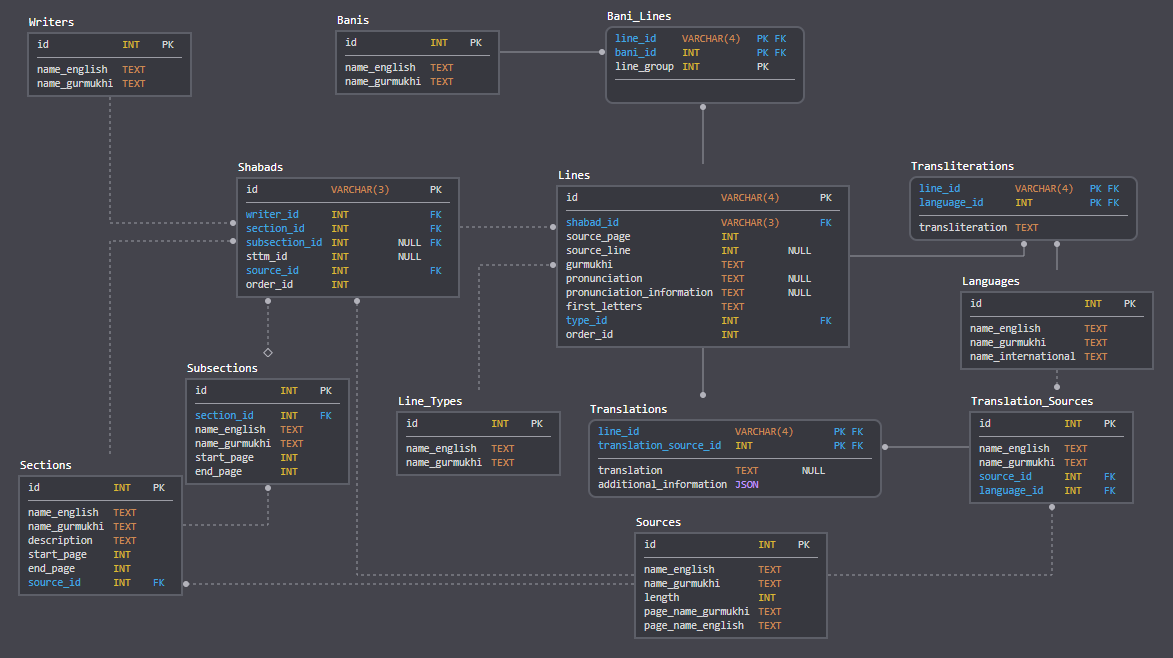
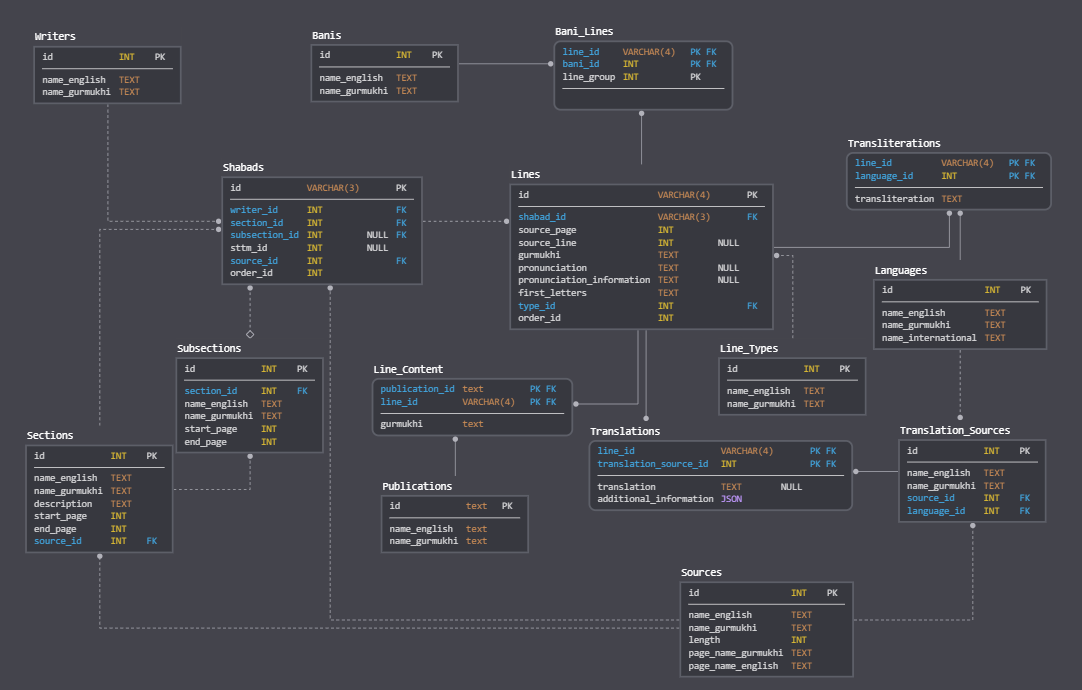
feat: add publications and line content to schema

diff --git a/lib/schema.js b/lib/schema.js
@@ -75,11 +75,24 @@ const createSchema = knex => knex.schema
     table.integer( 'source_line' )
     table.text( 'first_letters' )
     table.text( 'vishraam_first_letters' )
-    table.text( 'gurmukhi' ).notNullable()
+    table.text( 'gurmukhi' ).notNullable() // To be deprecated - currently represents SGPC
     table.text( 'pronunciation' )
     table.text( 'pronunciation_information' )
     table.integer( 'type_id' ).references( 'id' ).inTable( 'line_types' )
     table.integer( 'order_id' ).notNullable().unique()
+  } )
+  .createTable( 'publications', table => {
+    setupMySQL( table )
+    table.increments( 'id' ).primary()
+    table.string( 'name_gurmukhi' ).notNullable().unique()
+    table.string( 'name_english' ).notNullable().unique()
+  } )
+  .createTable( 'line_content', table => {
+    setupMySQL( table )
+    table.string( 'line_id', 4 ).references( 'id' ).inTable( 'lines' ).notNullable()
+    table.integer( 'publication_id' ).references( 'id' ).inTable( 'publications' ).notNullable()
+    table.text( 'gurmukhi' ).notNullable()
+    table.primary( [ 'line_id', 'publication_id' ] )
   } )
   .createTable( 'languages', table => {
     setupMySQL( table )
